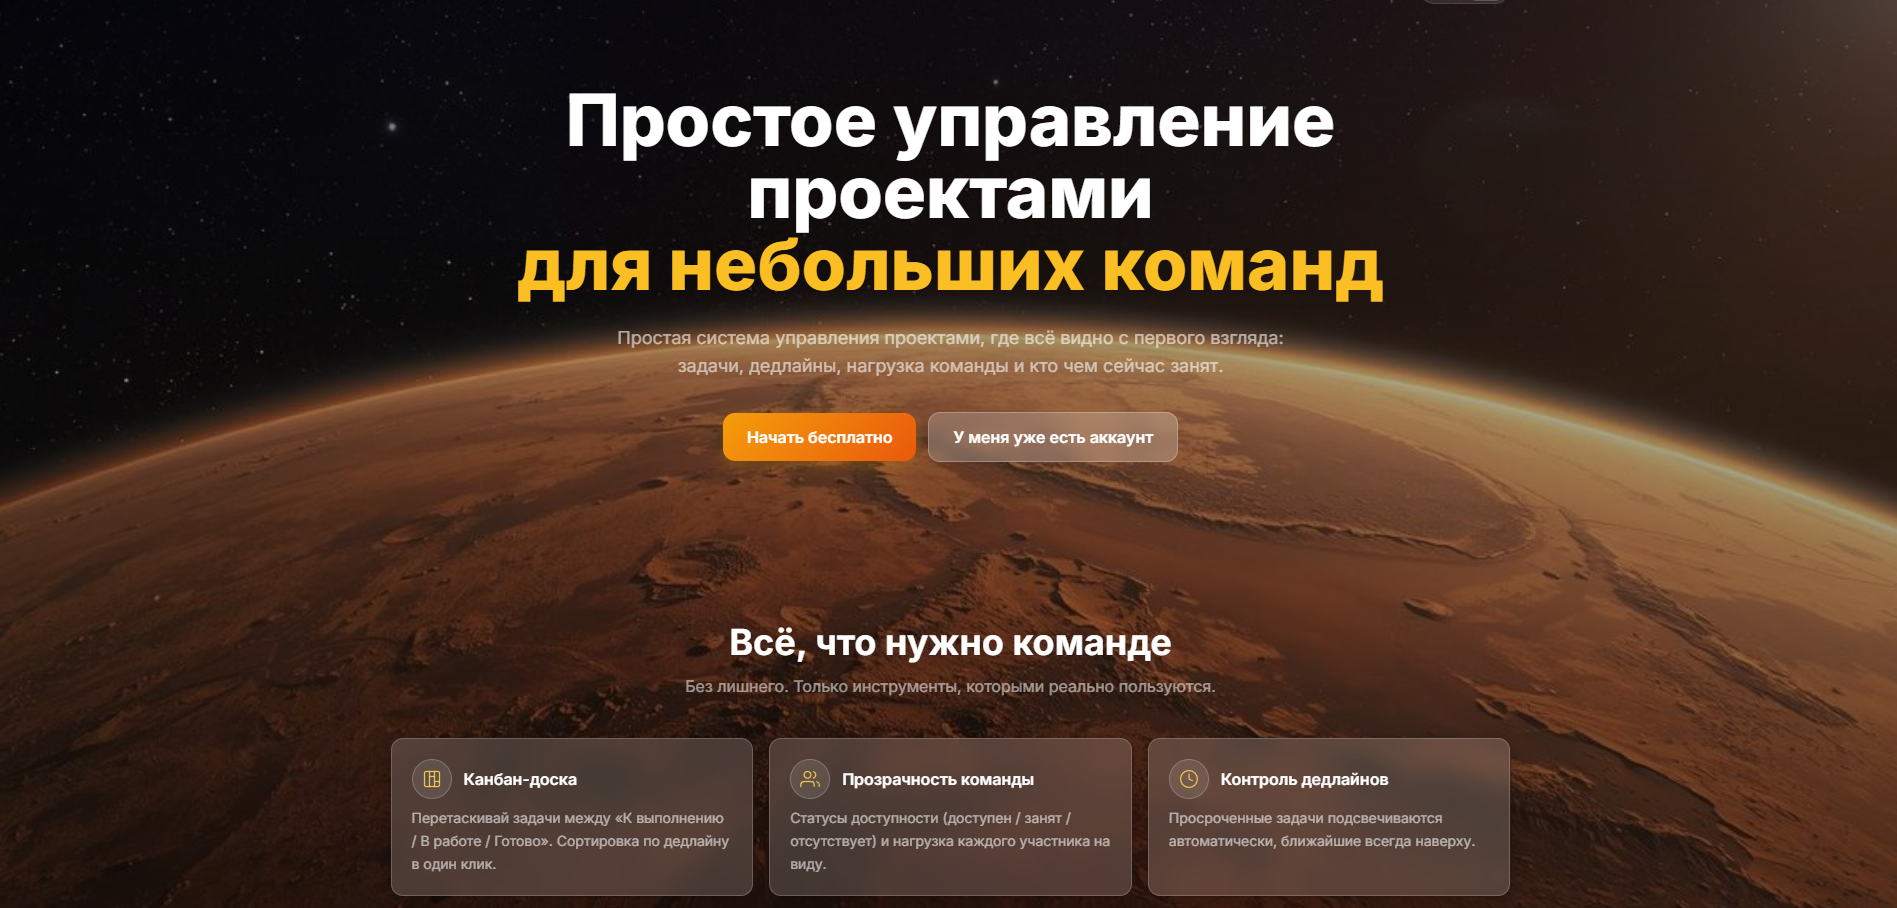
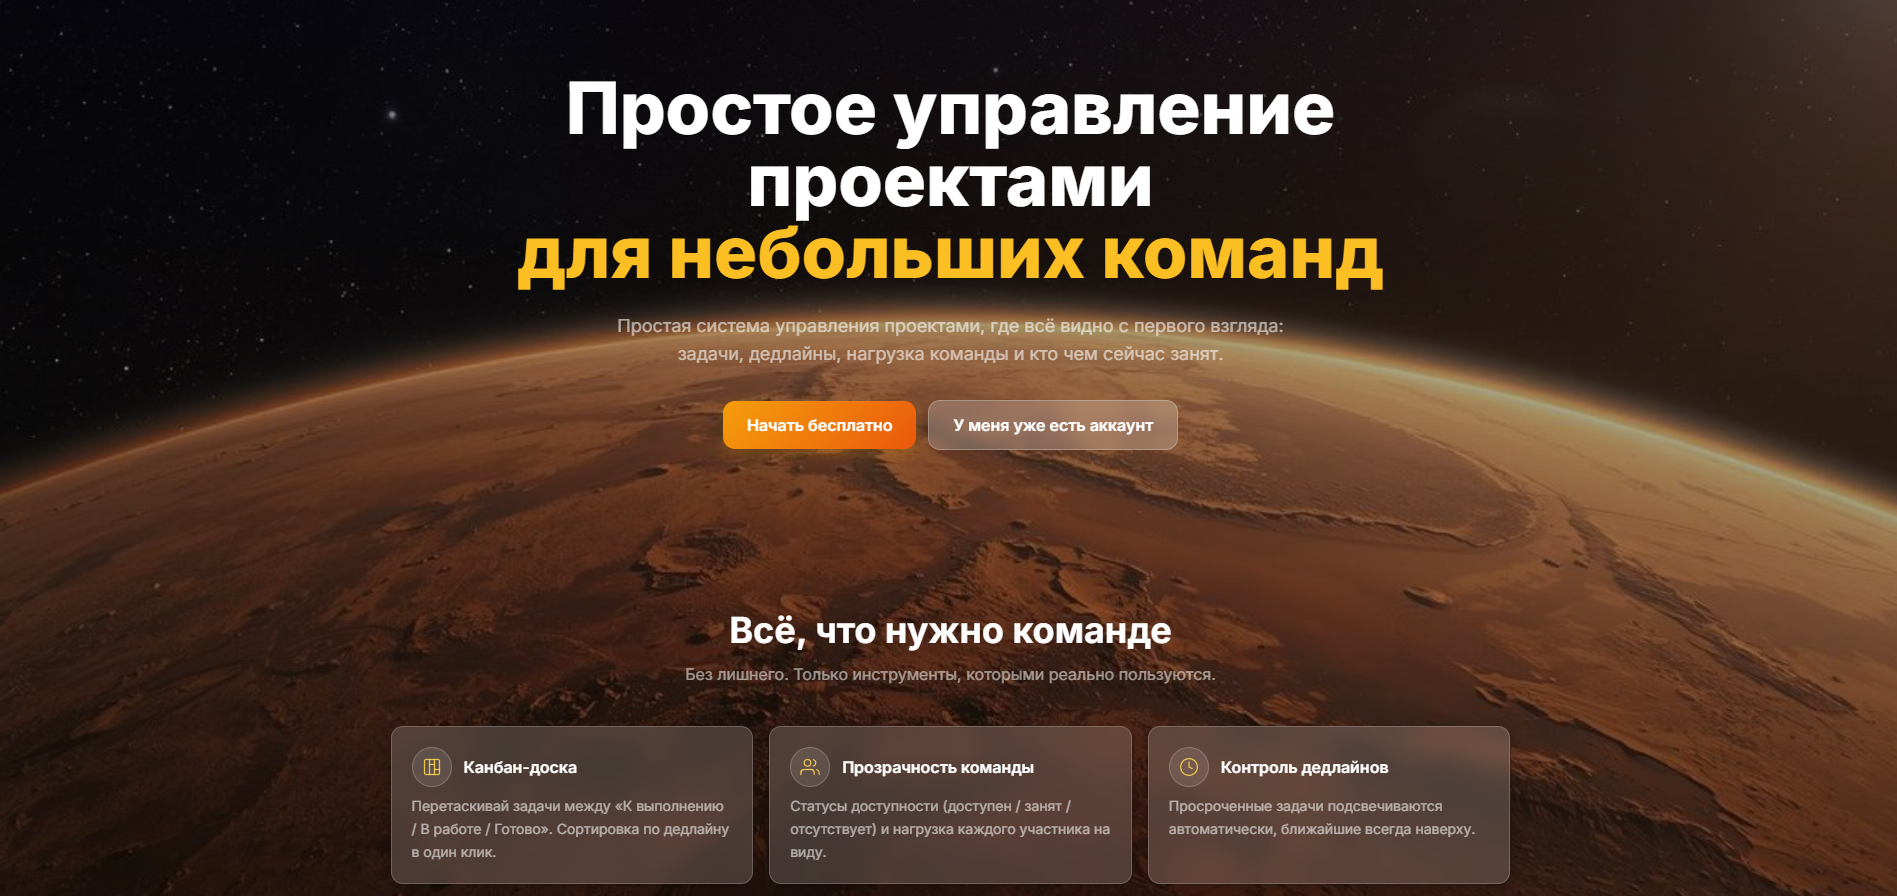
docs: remove emojis from README and API docs

diff --git a/API_ENDPOINTS.md b/API_ENDPOINTS.md
@@ -18,7 +18,7 @@ Authorization: Bearer {token}
 
 ---
 
-## 🔐 Аутентификация
+## Аутентификация
 
 ### POST /auth/signin
 
@@ -63,7 +63,7 @@ Authorization: Bearer {token}
 
 ---
 
-## 👥 Пользователи
+## Пользователи
 
 ### GET /user/mydata
 
@@ -140,7 +140,7 @@ Authorization: Bearer {token}
 
 ---
 
-## 📊 Admin Endpoints
+## Admin Endpoints
 
 ### GET /admin/users
 
@@ -158,7 +158,7 @@ Authorization: Bearer {token}
 
 ---
 
-## 📁 Проекты
+## Проекты
 
 ### GET /project
 
@@ -224,7 +224,7 @@ Authorization: Bearer {token}
 
 ---
 
-## ✅ Задачи
+## Задачи
 
 ### GET /task
 
@@ -288,7 +288,7 @@ Authorization: Bearer {token}
 
 ---
 
-## 💬 Комментарии
+## Комментарии
 
 ### GET /task/:taskId/comments
 
@@ -329,7 +329,7 @@ Authorization: Bearer {token}
 
 ---
 
-## 📈 Действия (История активности)
+## Действия (История активности)
 
 ### GET /task/:taskId/actions
 
@@ -345,18 +345,18 @@ Authorization: Bearer {token}
 
 ---
 
-## 🔒 Меры безопасности
+## Меры безопасности
 
-- ✅ JWT аутентификация (токены сроком 24 часа)
-- ✅ Чёрный список токенов для выхода
-- ✅ Ролевой доступ (Admin/Manager/User)
-- ✅ Валидация входных данных на всех endpoints
-- ✅ Валидация загружаемых файлов (тип и размер)
-- ✅ Проверка прав доступа к ресурсам
+- JWT аутентификация (токены сроком 24 часа)
+- Чёрный список токенов для выхода
+- Ролевой доступ (Admin/Manager/User)
+- Валидация входных данных на всех endpoints
+- Валидация загружаемых файлов (тип и размер)
+- Проверка прав доступа к ресурсам
 
 ---
 
-## 📝 Обработка ошибок
+## Обработка ошибок
 
 Все ошибки возвращаются в формате JSON с сообщением:
 
@@ -384,7 +384,7 @@ Authorization: Bearer {token}
 
 ---
 
-## 🚀 Примеры использования
+## Примеры использования
 
 ### Вход в систему
 
@@ -424,7 +424,7 @@ curl http://localhost:3000/api/task/1/actions \
 
 ---
 
-## 📋 Правила валидации
+## Правила валидации
 
 ### Имя пользователя (Username)
 

diff --git a/README.md b/README.md
@@ -35,7 +35,7 @@
 
 ---
 
-## 🛠 Технический стек
+## Технический стек
 
 | Layer | Технологии |
 |-------|-----------|
@@ -45,7 +45,7 @@
 | **Validation** | express-validator |
 ---
 
-## ⚡ Быстрый старт
+## Быстрый старт
 
 ### 1. Установка зависимостей
 
@@ -90,7 +90,7 @@ cd client && npm run dev
 
 ---
 
-## 📊 Оптимизации
+## Оптимизации
 
 | Метрика | Было | Стало | Улучшение |
 |---------|------|-------|-----------|
@@ -101,7 +101,7 @@ cd client && npm run dev
 
 ---
 
-## 📁 Структура проекта
+## Структура проекта
 
 ```
 uniflow-kanban/
@@ -122,7 +122,7 @@ uniflow-kanban/
 
 ---
 
-## 🖼 Скриншоты
+## Скриншоты
 
 ### Главная страница
 ![Landing](img/screenshot-0.png)
@@ -141,6 +141,6 @@ uniflow-kanban/
 
 ---
 
-## 📚 API Документация
+## API Документация
 
 Полная документация endpoints доступна в файле [`API_ENDPOINTS.md`](API_ENDPOINTS.md).